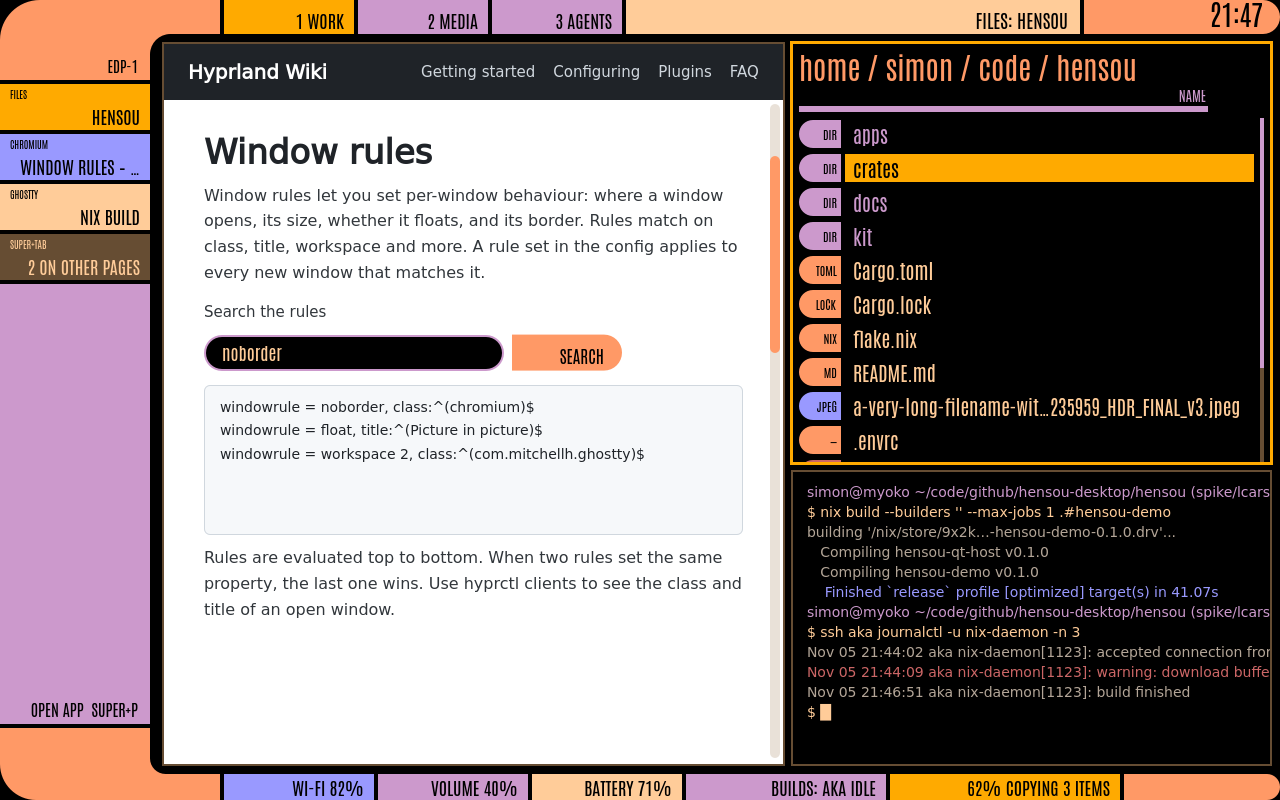
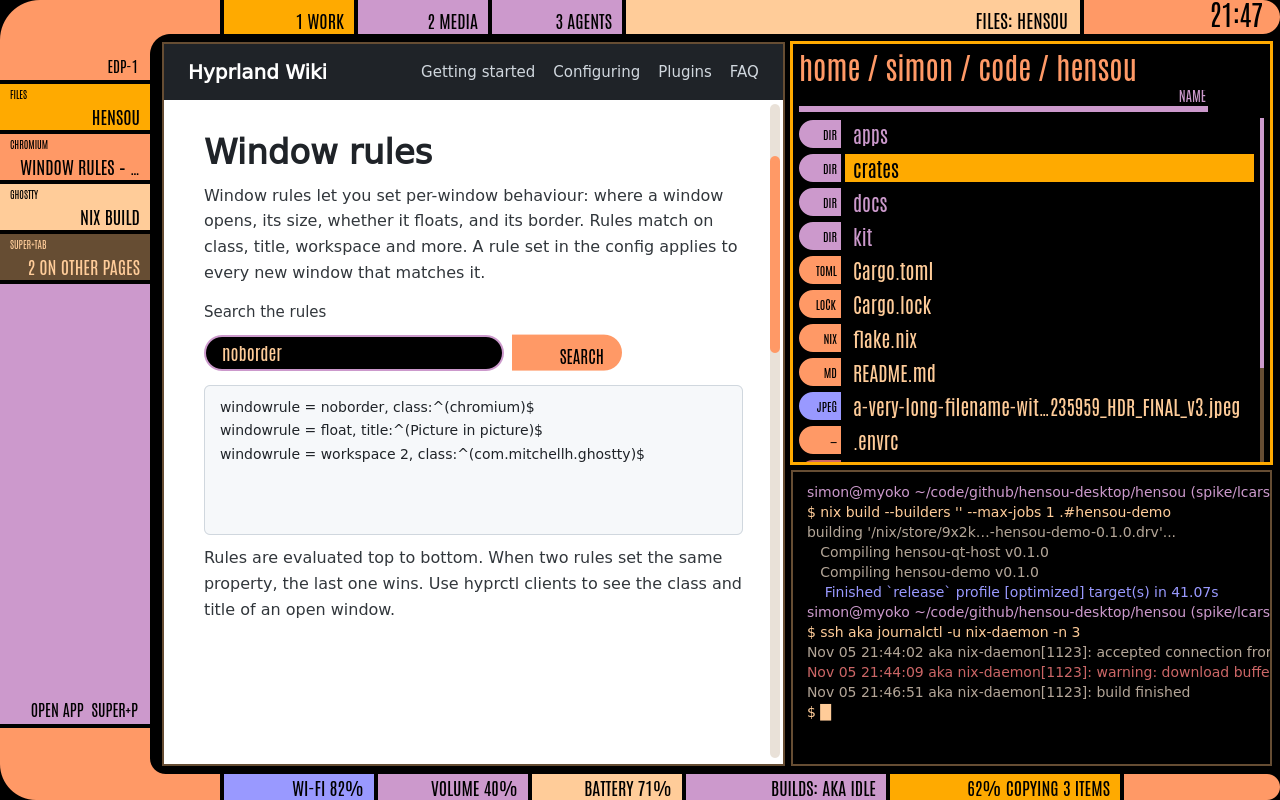
spike(lcars): notifications as part of the frame, by urgency; extension reading view

Changed region(s): [[0.0, 0.1562, 0.125, 0.25]]

diff --git a/prototypes/lcars/desktop/Desktop.qml b/prototypes/lcars/desktop/Desktop.qml
@@ -19,12 +19,27 @@ Item {
     property int otherWindows: 0
     property Component tiles
     readonly property var p: DP.plan(width, height, primary)
+    // Notifications live in the frame, by urgency (freedesktop: low, normal, critical):
+    //   low      a readout segment in the bottom bar, gone after 4 s
+    //   notify   (normal) the arm's comms block grows out across the work area
+    //   unread   after 7 s it folds back into the arm as a counted block
+    //   critical the whole frame goes to alert red and the block stays out
+    readonly property bool critical: state_ === "critical"
+    readonly property bool tabOut: state_ === "notify" || critical
+    readonly property bool comms: tabOut || state_ === "unread"
+    readonly property color c1: critical ? T.alert : T.sunset
+    readonly property color c2: critical ? "#993333" : T.lilac
+    readonly property var msg: critical
+        ? { from: "aka, 21:46", summary: "Storage almost full", body: "/storage on aka is 97% full. Builds will stop at 100%.", a1: "Open storage", a2: "Acknowledge" }
+        : { from: "aka, 21:46", summary: "Build finished", body: "hensou-demo built in 41 s with 2 warnings.", a1: "Open log", a2: "Dismiss" }
+    readonly property real armUsed: (Math.min(windows.length, p.blocksFit) + (otherWindows > 0 ? 1 : 0)) * (p.blockH + 4)
+    readonly property real commsY: p.elbowH + 4 + armUsed
 
     // ── Top elbow and bar ───────────────────────────────────────────
     Elbow {
         corner: "tl"; armW: d.p.armW; barH: d.p.topH
         width: d.p.elbowW; height: d.p.elbowH
-        color: T.sunset
+        color: d.c1
         outerR: Math.min(d.p.armW, d.p.elbowH) * 0.8
     }
     Text {
@@ -50,14 +65,14 @@ Item {
             // Alert segment: dark until a notification arrives.
             width: Math.max(0, d.width - d.p.elbowW - 4 - d.pages.length * 134 - (d.p.clock ? 200 : 40))
             height: d.p.topH
-            color: d.state_ === "notify" ? T.periwinkle : T.peach
+            color: d.critical ? T.alert : T.peach
             // Without title bars, the focused window's full title lives here.
             // A notification takes the segment over until it is read.
             readonly property var focusedWin: d.windows.filter(function (w) { return w.focused; })[0]
             Text {
                 anchors.right: parent.right; anchors.rightMargin: 12; anchors.bottom: parent.bottom; anchors.bottomMargin: 2
                 width: parent.width - 24; horizontalAlignment: Text.AlignRight; elide: Text.ElideLeft
-                text: d.state_ === "notify" ? "1 NEW: BUILD FINISHED ON AKA"
+                text: d.critical ? "ALERT: STORAGE ALMOST FULL ON AKA"
                     : parent.focusedWin ? (parent.focusedWin.app + ": " + parent.focusedWin.title).toUpperCase() : ""
                 color: T.space; font.family: d.fam; font.pixelSize: d.p.topH * 0.55
             }
@@ -65,11 +80,11 @@ Item {
         Pill {
             visible: d.p.clock
             width: 196; height: d.p.topH; leftCap: false
-            text: "21:47"; sub: "Thu 5 Nov"; color: T.sunset; fam: d.fam; px: 28
+            text: "21:47"; sub: "Thu 5 Nov"; color: d.c1; fam: d.fam; px: 28
         }
         Rectangle {
             visible: !d.p.clock
-            width: 36; height: d.p.topH; color: T.sunset
+            width: 36; height: d.p.topH; color: d.c1
             topRightRadius: d.p.topH / 2; bottomRightRadius: d.p.topH / 2
         }
     }
@@ -95,8 +110,8 @@ Item {
         }
     }
     Rectangle {
-        x: 0; width: d.p.armW; color: T.lilac
-        y: d.p.elbowH + 4 + (Math.min(d.windows.length, d.p.blocksFit) + (d.otherWindows > 0 ? 1 : 0)) * (d.p.blockH + 4)
+        x: 0; width: d.p.armW; color: d.c2
+        y: d.commsY + (d.comms ? d.p.blockH + 4 : 0)
         height: Math.max(0, d.height - y - d.p.bottomElbowH - 4)
         Text {
             // Launcher lives at the foot of the filler: Super+P opens the same.
@@ -109,7 +124,7 @@ Item {
     Elbow {
         corner: "bl"; armW: d.p.armW; barH: d.p.bottomH
         y: d.height - d.p.bottomElbowH; width: d.p.elbowW; height: d.p.bottomElbowH
-        color: T.sunset
+        color: d.c1
     }
     Row {
         x: d.p.elbowW + 4; y: d.height - d.p.bottomH; height: d.p.bottomH; spacing: 4
@@ -120,7 +135,8 @@ Item {
                 { t: "Battery 71%", c: T.peach, w: 150 },
                 { t: "Builds: aka idle", c: T.lilac, w: 200 },
                 { t: "62% copying 3 items", c: T.gold, w: 230 }
-            ] : [ { t: "Moonlight 1280×800", c: T.lilac, w: 240 } ]
+            ].concat(d.state_ === "low" ? [ { t: "Backup done on rakku", c: T.periwinkle, w: 260 } ] : [])
+              : [ { t: "Moonlight 1280×800", c: T.lilac, w: 240 } ]
             delegate: Rectangle {
                 required property var modelData
                 width: modelData.w; height: d.p.bottomH; color: modelData.c
@@ -128,8 +144,8 @@ Item {
             }
         }
         Rectangle {
-            width: Math.max(0, d.width - d.p.elbowW - 4 - (d.p.readouts ? 880 + 20 : 244))
-            height: d.p.bottomH; color: T.sunset
+            width: Math.max(0, d.width - d.p.elbowW - 4 - (d.p.readouts ? 880 + 20 + (d.state_ === "low" ? 264 : 0) : 244))
+            height: d.p.bottomH; color: d.c1
             topRightRadius: d.p.bottomH / 2; bottomRightRadius: d.p.bottomH / 2
         }
     }
@@ -141,21 +157,38 @@ Item {
     }
 
     // ── Notification: a card under the lit alert segment ────────────
+    // Folded: one counted block in the arm, under the windows. Click opens the history.
+    Pill {
+        visible: d.state_ === "unread"
+        x: 0; y: d.commsY; width: d.p.armW; height: d.p.blockH
+        leftCap: false; rightCap: false
+        text: "1 unread"; sub: "Comms"; color: T.periwinkle; fam: d.fam; px: 18
+    }
+    // Out: the same block grows across the work area. It is frame, not a window:
+    // same colour family, black type on colour, a pill end where it stops.
     Item {
-        visible: d.state_ === "notify"
-        width: 420; height: 176
-        x: d.width - width - 14; y: d.p.topH + 6
-        Rectangle { anchors.fill: parent; anchors.margins: -6; color: T.space; border.color: T.periwinkle; border.width: 2 }
-        Rectangle { width: parent.width; height: 26; color: T.periwinkle; topLeftRadius: 13; bottomLeftRadius: 13
-            Text { anchors.right: parent.right; anchors.rightMargin: 10; anchors.bottom: parent.bottom; anchors.bottomMargin: 1; text: "FROM AKA, 21:46"; color: T.space; font.family: d.fam; font.pixelSize: 17 }
+        id: slab
+        visible: d.tabOut
+        readonly property real h: 196
+        readonly property real extW: Math.min(660, d.p.work.w * 0.5)
+        readonly property color c: d.critical ? T.alert : T.periwinkle
+        x: 0; y: d.commsY; width: d.p.armW + extW; height: h
+        Rectangle { anchors.fill: parent; color: slab.c; topRightRadius: 44; bottomRightRadius: 44 }
+        Rectangle { y: slab.h; width: d.p.armW; height: 4; color: T.space }
+        // Arm part: what kind of block this is.
+        Text { x: d.p.armW - width - 12; y: 6; text: d.critical ? "ALERT" : "COMMS"; color: T.space; font.family: d.fam; font.pixelSize: 15 }
+        Text { x: d.p.armW - width - 12; y: 24; text: "1 OF 1"; color: T.space; font.family: d.fam; font.pixelSize: 26 }
+        Rectangle { x: d.p.armW + 8; y: 14; width: 4; height: slab.h - 28; color: T.space }
+        Column {
+            x: d.p.armW + 28; y: 12; width: slab.extW - 80; spacing: 4
+            Text { text: ("From " + d.msg.from).toUpperCase(); color: T.space; font.family: d.fam; font.pixelSize: 16 }
+            Text { text: d.msg.summary; color: T.space; font.family: d.fam; font.pixelSize: 40; font.weight: Font.Medium }
+            Text { width: parent.width; wrapMode: Text.Wrap; text: d.msg.body; color: T.space; font.family: d.fam; font.pixelSize: 21 }
         }
-        Rectangle { y: 30; width: 8; height: parent.height - 30; color: T.periwinkle }
-        Text { x: 22; y: 38; text: "Build finished"; color: T.peach; font.family: d.fam; font.pixelSize: 30 }
-        Text { x: 22; y: 80; width: parent.width - 34; wrapMode: Text.Wrap; text: "hensou-demo built in 41 s. 2 warnings."; color: T.peach; font.pixelSize: 16 }
         Row {
-            x: 22; y: parent.height - 44; spacing: 4
-            Pill { width: 150; height: 38; text: "Open log"; color: T.periwinkle; rightCap: false; fam: d.fam; px: 18 }
-            Pill { width: 120; height: 38; text: "Dismiss"; color: T.dim; ink: T.peach; leftCap: false; fam: d.fam; px: 18 }
+            x: d.p.armW + 28; y: slab.h - 52; spacing: 4
+            Pill { width: 170; height: 40; text: d.msg.a1; color: T.space; ink: slab.c; rightCap: false; fam: d.fam; px: 18 }
+            Pill { width: 150; height: 40; text: d.msg.a2; color: T.space; ink: slab.c; leftCap: false; fam: d.fam; px: 18 }
         }
     }
 

diff --git a/prototypes/lcars/desktop/ReaderPage.qml b/prototypes/lcars/desktop/ReaderPage.qml
@@ -1,0 +1,53 @@
+// PROTOTYPE — what an extension's content script could do to an article page:
+// pull the text out (Readability-style) and re-set it as an LCARS reading view.
+// Only for pages that opt in (reader key); app-like sites keep their own UI.
+import QtQuick
+import "../tokens.js" as T
+import ".."
+
+Rectangle {
+    id: r
+    property string fam: ""
+    color: T.space
+    clip: true
+
+    // Contents built from the page's own headings.
+    Column {
+        x: 0; y: 16; width: 200; spacing: 4
+        Pill { width: 200; height: 30; leftCap: false; text: "Contents"; color: T.sunset; fam: r.fam; px: 16 }
+        Repeater {
+            model: [ { t: "Window rules", on: true }, { t: "Syntax" }, { t: "Rules" }, { t: "Dynamic rules" }, { t: "Layer rules" } ]
+            delegate: Pill {
+                required property var modelData
+                width: 200; height: 40; leftCap: false
+                text: modelData.t; color: modelData.on ? T.gold : T.lilac; fam: r.fam; px: 17
+            }
+        }
+        Rectangle { width: 200; height: 220; color: T.lilac; bottomRightRadius: 20 }
+    }
+    Column {
+        x: 236; y: 16; width: Math.min(640, r.width - 280); spacing: 16
+        Text { text: "Window rules"; color: T.sunset; font.family: r.fam; font.pixelSize: 56; font.weight: Font.Medium }
+        Text {
+            width: parent.width; wrapMode: Text.Wrap; color: T.peach; font.pixelSize: 18; lineHeight: 1.45
+            text: "Window rules let you set per-window behaviour: where a window opens, its size, whether it floats, and its border. Rules match on class, title, workspace and more. A rule set in the config applies to every new window that matches it."
+        }
+        Rectangle {
+            width: parent.width; height: 120; color: T.space; border.color: T.periwinkle; border.width: 2
+            Rectangle { width: 120; height: 24; color: T.periwinkle; Text { anchors.right: parent.right; anchors.rightMargin: 8; anchors.bottom: parent.bottom; text: "CONFIG"; font.family: r.fam; font.pixelSize: 16; color: T.space } }
+            Text {
+                x: 16; y: 36; color: T.periwinkle; font.family: "monospace"; font.pixelSize: 15; lineHeight: 1.4
+                text: "windowrule = noborder, class:^(chromium)$\nwindowrule = float, title:^(Picture in picture)$"
+            }
+        }
+        Text {
+            width: parent.width; wrapMode: Text.Wrap; color: T.peach; font.pixelSize: 18; lineHeight: 1.45; textFormat: Text.StyledText
+            text: "Rules are evaluated top to bottom. When two rules set the same property, the last one wins. Use <font color='#9999FF'><u>hyprctl clients</u></font> to see the class and title of an open window."
+        }
+    }
+    // Reading progress, as an LCARS level bar on the right edge.
+    Rectangle {
+        anchors.right: parent.right; anchors.rightMargin: 4; y: 16; width: 12; height: parent.height - 32; color: T.dim
+        Rectangle { width: 12; height: parent.height * 0.22; color: T.sunset }
+    }
+}

diff --git a/prototypes/lcars/desktop/DesktopMain.qml b/prototypes/lcars/desktop/DesktopMain.qml
@@ -23,9 +23,16 @@ Window {
 
     FontLoader { id: antonio; source: "../fonts/Antonio.ttf" }
 
-    readonly property var mainWindows: [
+    // Periwinkle is kept for comms, so no app block uses it.
+    readonly property bool reader: st === "reader"
+    readonly property var mainWindows: reader ? [
+        // The shell, not the page, shows the origin: Chromium --app has no address bar.
+        { app: "Chromium", title: "wiki.hyprland.org: Window rules", focused: true, color: T.sunset },
+        { app: "Files", title: "hensou", focused: false, color: T.lilac },
+        { app: "Ghostty", title: "nix build", focused: false, color: T.peach }
+    ] : [
         { app: "Files", title: "hensou", focused: true, color: T.lilac },
-        { app: "Chromium", title: "Window rules – Hyprland Wiki", focused: false, color: T.periwinkle },
+        { app: "Chromium", title: "Window rules – Hyprland Wiki", focused: false, color: T.sunset },
         { app: "Ghostty", title: "nix build", focused: false, color: T.peach }
     ]
     readonly property var mainPages: [
@@ -41,7 +48,8 @@ Window {
             id: wa
             readonly property real g: 10
             readonly property real leftW: Math.round(width * 0.56)
-            WebPage { width: wa.leftW; height: wa.height; fam: antonio.name }
+            WebPage { visible: !win.reader; width: wa.leftW; height: wa.height; fam: antonio.name }
+            ReaderPage { visible: win.reader; width: wa.leftW; height: wa.height; fam: antonio.name }
             FilesPane {
                 id: files
                 x: wa.leftW + wa.g; width: wa.width - wa.leftW - wa.g; height: Math.round(wa.height * 0.58)
@@ -50,7 +58,7 @@ Window {
             Terminal { id: term; x: files.x; y: files.height + wa.g; width: files.width; height: wa.height - files.height - wa.g }
             Repeater {
                 // Inactive border: black apps on a black frame need an edge.
-                model: [ { x: 0, y: 0, w: wa.leftW, h: wa.height }, { x: term.x, y: term.y, w: term.width, h: term.height } ]
+                model: [ win.reader ? { x: files.x, y: 0, w: files.width, h: files.height } : { x: 0, y: 0, w: wa.leftW, h: wa.height }, { x: term.x, y: term.y, w: term.width, h: term.height } ]
                 delegate: Rectangle {
                     required property var modelData
                     x: modelData.x - 2; y: modelData.y - 2; width: modelData.w + 4; height: modelData.h + 4
@@ -59,7 +67,9 @@ Window {
             }
             Rectangle {
                 // Focus: Hyprland's active border, in gold. Nothing else marks a tile.
-                x: files.x - 3; y: -3; width: files.width + 6; height: files.height + 6
+                x: win.reader ? -3 : files.x - 3; y: -3
+                width: win.reader ? wa.leftW + 6 : files.width + 6
+                height: win.reader ? wa.height + 6 : files.height + 6
                 color: "transparent"; border.color: T.gold; border.width: 3
             }
         }

diff --git a/prototypes/lcars/README.md b/prototypes/lcars/README.md
@@ -51,3 +51,19 @@ Findings:
   holds it, and a notification takes that segment over until it is read.
 - Web pages keep their own colours and body face. Only scroll bars and form
   controls take LCARS. Making page text Antonio would hurt reading.
+
+## Pass 3: notifications in the frame, and a browser extension
+
+Notifications follow the freedesktop urgency the notification model already
+keeps (`notification-model.js`: low 4 s, normal 7 s, critical never):
+
+- low: one more readout segment in the bottom bar;
+- normal: the arm's comms block grows out across the work area, then folds
+  back into a counted block under the window list;
+- critical: the whole frame turns alert red until acknowledged.
+
+Periwinkle is reserved for comms, so no app block uses it.
+
+`desktop/ReaderPage.qml` mocks what an extension content script could do to
+an article: contents from its headings, LCARS headings and code boxes, body
+in a readable face. The origin stays in the shell's top bar.
